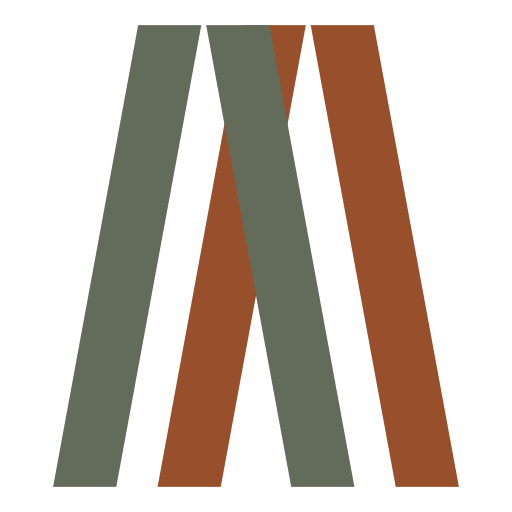
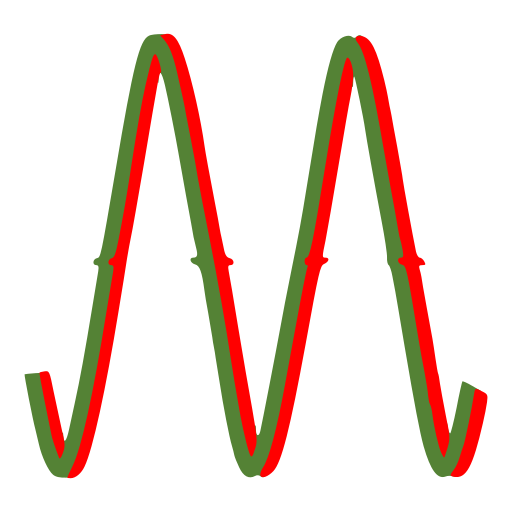
feat(pwa): PWA-ikonerna bär samma M som faviconen
Marcus: "PWA ikonerna måste vara samma såklart!!" Rätt — de bar fortfarande
parallellogram-formen medan faviconen bytts.

Ny källa: public/miranon-m-original.svg — vågformen ur ordmärket,
originalfärgerna, transparent bakgrund, centrerad i en kvadratisk
130-viewBox. Gamla public/miranon-logo.svg är kvar men används inte längre
av configen (och används inte någonstans i src/ eller index.html —
verifierat med grep).

MASKABLE-PADDINGEN OMRÄKNAD, och det första försöket var fel:

Jag härledde 0,2273 analytiskt ur M:ets käll-hörnradie i viewBoxen. Det var
fel med faktor två — generatorns padding-semantik är inte den linjära
innehållsskalning jag antog. Rätt metod var att generera och mäta den
faktiska pixel-bboxen i utfilen:

  padding 0.45 -> bbox 270x258 -> kvot 0,912  FÄLLER (kravet är <= 0,9)
  padding 0.55 -> bbox 220x212 -> kvot 0,746  klarar
  padding 0.62 -> bbox 187x179 -> kvot 0,632  klarar men märket blir smått

0.55 valt. Notera att gamla 0.45 hade fällt kravet med den nya källan —
knappt, men fällt. Metoden är bokförd i configens kommentar: generera om och
MÄT, härled inte.

Ett sidospår värt att minnas: en tidigare redigering via sed förstörde
configens indentering så generatorn kastade ParseError och tyst lät
utfilerna vara. Tre "mätningar" i rad läste därför samma gamla fil och gav
identiska tal. Ett verktyg som inte kör ser ut som ett verktyg som inte
reagerar.

npm run build: grön.

diff --git a/pwa-assets.config.ts b/pwa-assets.config.ts
@@ -1,7 +1,7 @@
 import { defineConfig } from '@vite-pwa/assets-generator/config';
 
 /**
- * PWA-ikon-generering ur public/miranon-logo.svg (ADR-047 B4).
+ * PWA-ikon-generering ur public/miranon-m-original.svg (ADR-047 B4).
  * Kör: npx pwa-assets-generator  (läser denna config)
  *
  * Etablerad Session 16 K5b efter Marcus-fynd (kapad maskable + kvantiserad
@@ -11,12 +11,29 @@ import { defineConfig } from '@vite-pwa/assets-generator/config';
  *   (`quality: 60`) aktiverar sharps palett-kvantisering → 13 distinkta
  *   färger i 192:an i stället för ~450 (uppmätt K5b-diagnos) — taggiga
  *   diagonaler. Utan quality blir PNG:n lossless RGBA med full antialias.
- * - `maskable.padding: 0.45` (default 0.3): safe zone är en CIRKEL —
- *   kantvisa extents räcker inte, hörn-radien styr. Logotypens bbox i
- *   SVG:n (334×380 kring centrum) ger käll-hörnradie √(167²+190²) ≈ 253;
- *   kravet hörn-radie ≤ 0,9 × safe-zone-radien (0,4 × 512 = 204,8 px)
- *   kräver padding ≥ 0,431. 0.45 ger kvot ≈ 0,87 — synlig marginal.
- *   (Session 16 K5c efter Marcus-underkänd 0.35: tangerade cirkeln.)
+ * - `maskable.padding: 0.55` (default 0.3): safe zone är en CIRKEL —
+ *   kantvisa extents räcker inte, hörn-radien styr.
+ *
+ *   OMRÄKNAT S107 (2026-08-19) när källan byttes till Roger & Lottas
+ *   riktiga M. Den gamla siffran 0.45 hörde till parallellogram-formen
+ *   och är INTE överförbar: M:et har annan bbox och annan viewBox.
+ *
+ *   MÄTT, inte räknat. Ett första försök att härleda paddingen analytiskt
+ *   (ur M:ets käll-hörnradie 85,82 i en 130-viewBox) gav 0,2273 — och var
+ *   FEL med faktor två. Generatorns padding-semantik är inte den antagna
+ *   linjära skalningen av innehållet. Rätt metod var att generera och mäta
+ *   den faktiska pixel-bboxen i utfilen:
+ *
+ *     padding 0.45 → bbox 270×258 → kvot 0,912  ✗ (kravet är ≤ 0,9)
+ *     padding 0.55 → bbox 220×212 → kvot 0,746  ✓
+ *     padding 0.62 → bbox 187×179 → kvot 0,632  ✓ men märket blir smått
+ *
+ *   0.55 valdes: klarar kravet med marginal och håller märket på 220 px i
+ *   en 512-ikon. Notera att gamla 0.45 hade fällt kravet med den nya
+ *   källan — knappt, men fällt.
+ *
+ *   ÄNDRAS PADDINGEN: generera om och mät bboxen i utfilen. Härled den
+ *   inte.
  * - `transparent.sizes` utan 64 + utan favicons-generering: browser-
  *   favicon wiras i index.html från public/favicon/ (den runda
  *   vit-bakgrunds-varianten, Marcus-beslut K5b) — generatorns
@@ -25,12 +42,12 @@ import { defineConfig } from '@vite-pwa/assets-generator/config';
  *   (rund + vit bakgrund) i stället för genererad full-bleed.
  */
 export default defineConfig({
-  images: ['public/miranon-logo.svg'],
+  images: ['public/miranon-m-original.svg'],
   preset: {
     transparent: { sizes: [192, 512], padding: 0.05 },
     maskable: {
       sizes: [512],
-      padding: 0.45,
+      padding: 0.55,
       resizeOptions: { fit: 'contain', background: '#ffffff' },
     },
     apple: { sizes: [] },
